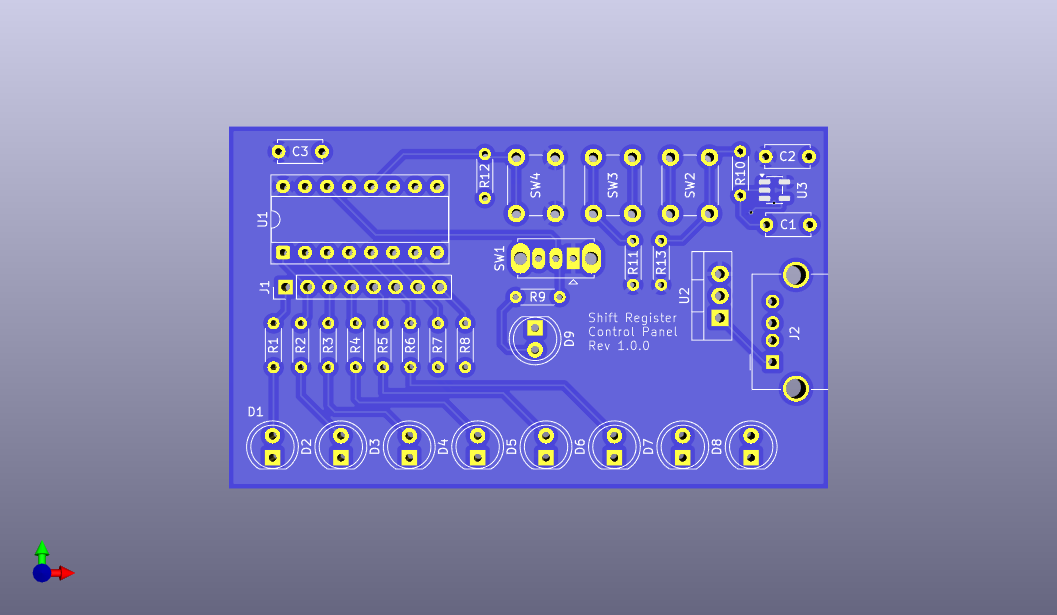
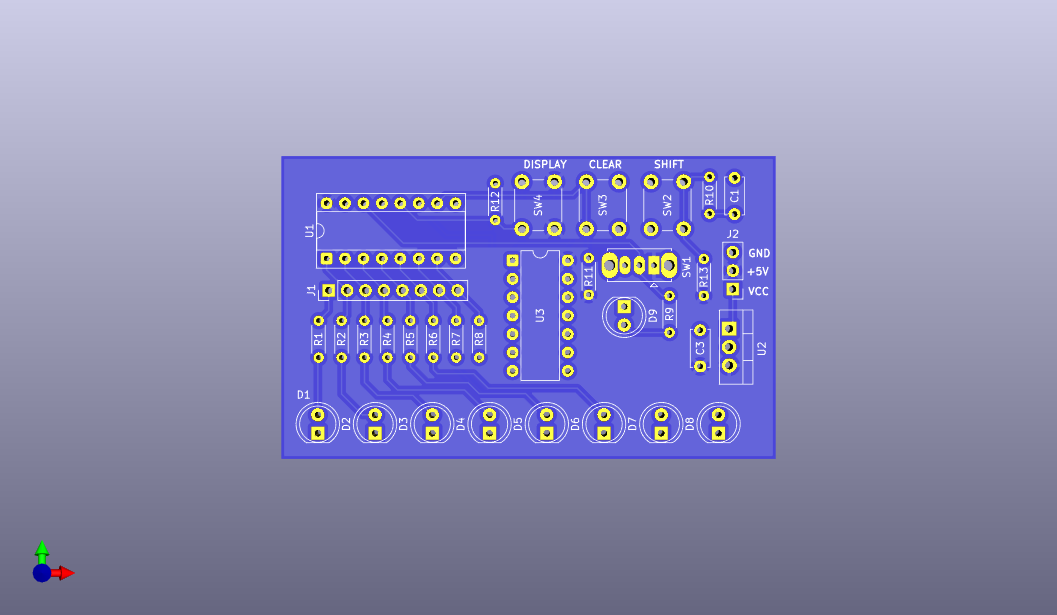
updated assets

Changed region(s): [[0.2185, 0.1854, 0.7805, 0.8033]]

diff --git a/README.md b/README.md
@@ -2,6 +2,8 @@
 
 The schematic is [available here](./assets/shift-register-control-panel.pdf). To order a PCB, download this project, and create a zip archive of the `gerbers` directory. Upload this archive to the PCB service when prompted.
 
+Dimensions: 2.7228 x 1.6437 inches (4.475 in^2)
+
 ![pcb-model-with-components](./assets/pcb-model-with-components.png)
 
 ## To-Do
